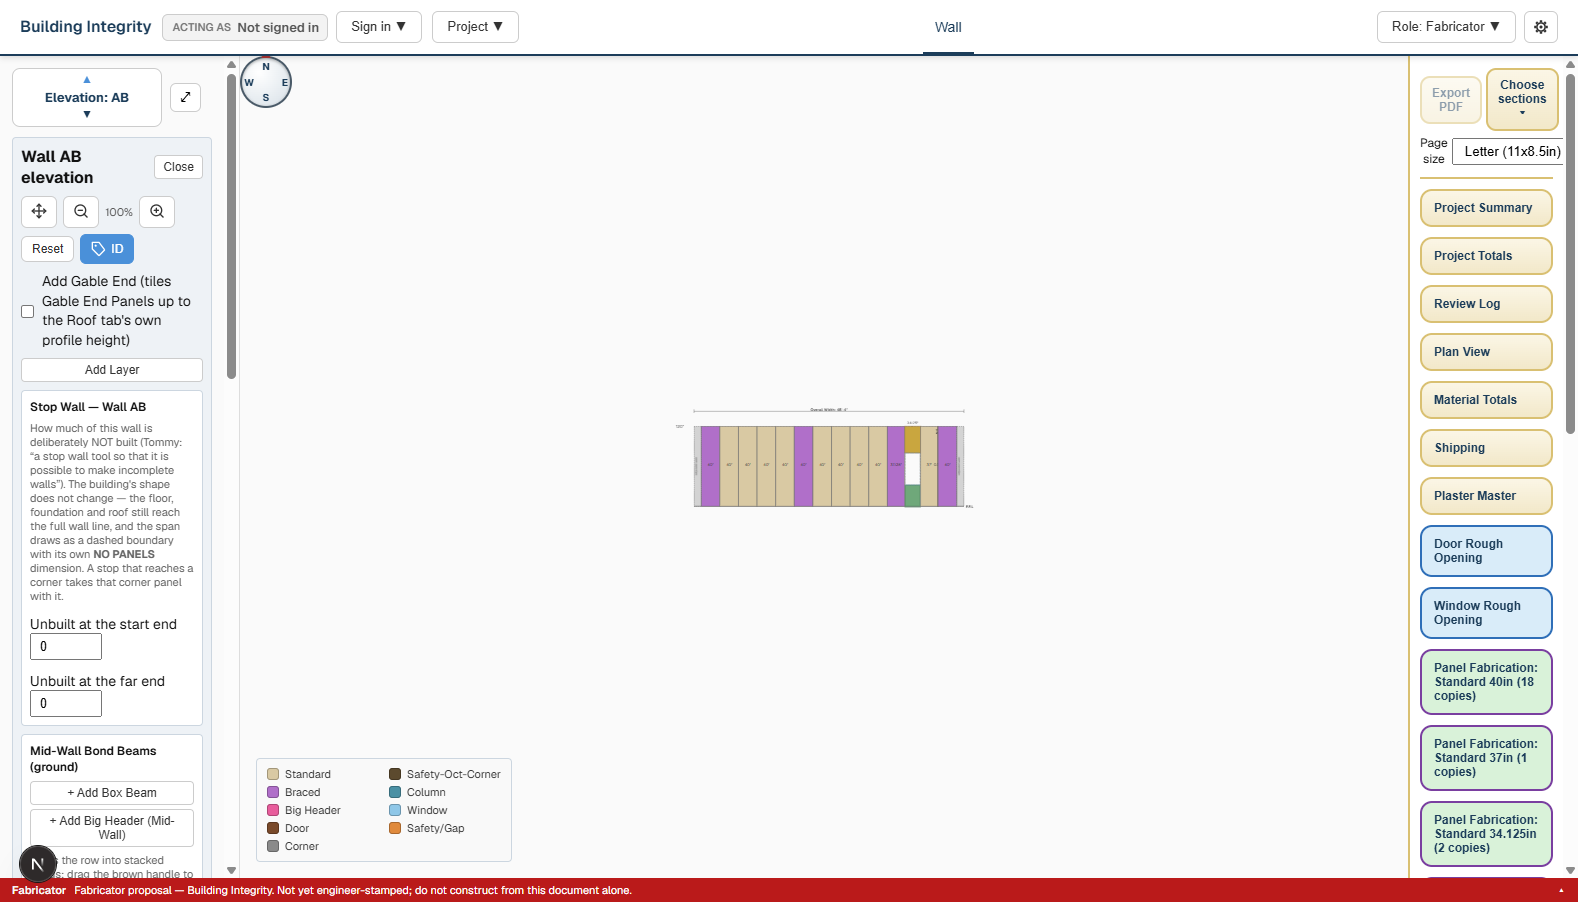
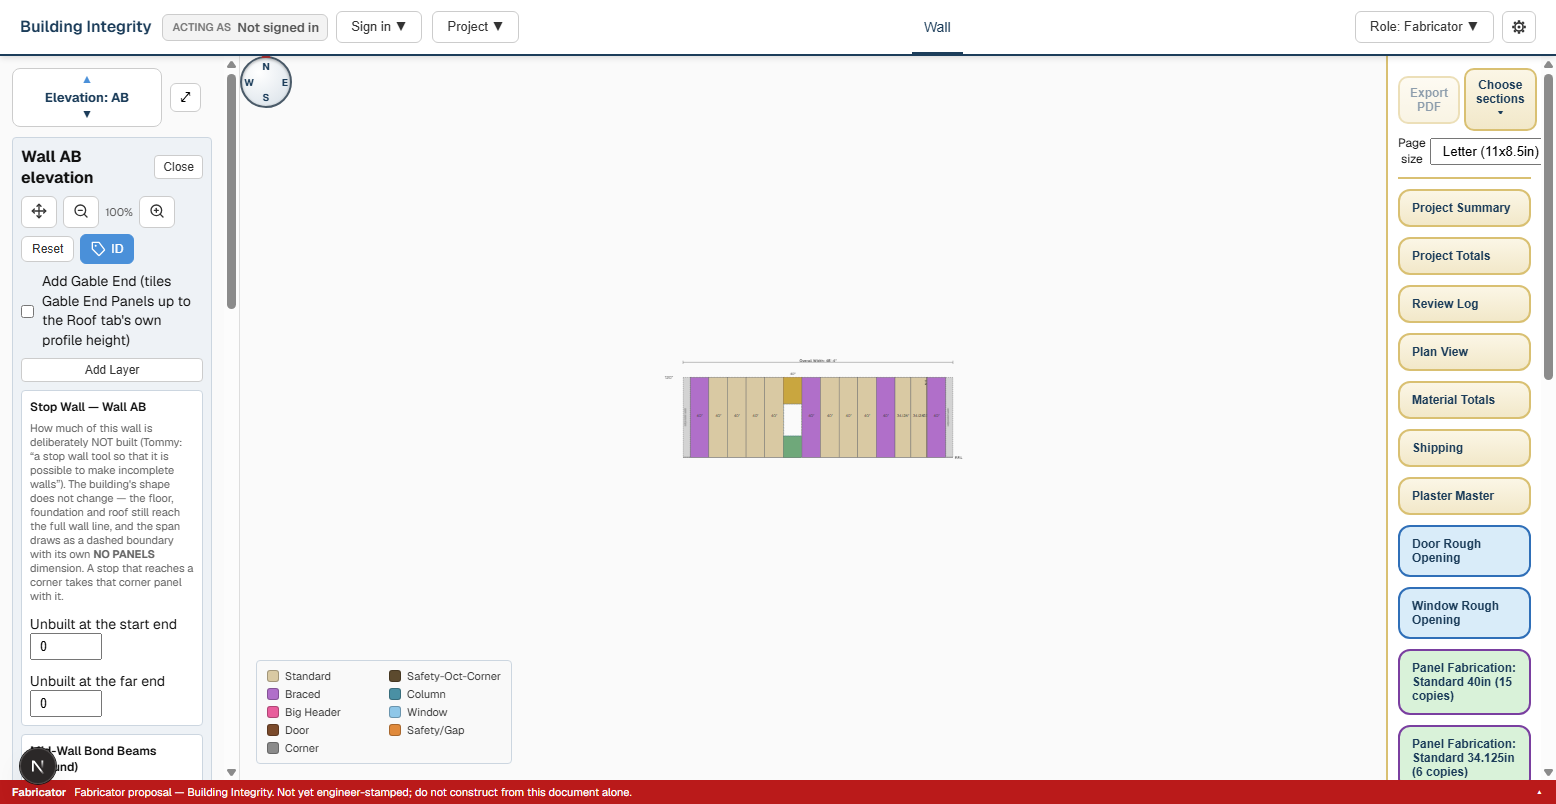
Smearforn 2b, review fix 2: re-run the harness against the fixed build, and record the residual
14 of 14, and this time the exit code is measured rather than reasoned
about: HARNESS_EXIT=0 on a clean run, 1 with SMEARFORN_SELF_TEST_INVERT=1
(13 of 14, the cross-reference check). Fresh evidence.json and the six
screenshots, from port 3231 — 3214, 3215 and 3219 were all occupied by other
checkouts, which is the trap the run's own build check exists for.

The step that matters reads, through the real UI:

  "Deleted a panel on wall AB: 15 panels -> 14, 12 still automatic. Spanning
  header H1 still spans its panels, but those panels are now a different
  width: it is cut 85¾" instead of 80"."

Before this pass the same delete printed only the first sentence.

Also recorded in the spec: the residual this leaves. A re-tile that changes a
header's width but leaves it INSIDE 48-144in produces no flag, because the
part is still buildable, and only the insert/delete path has a commit notice
to announce a change in. The Review Log always shows the CURRENT span, so no
sheet carries a wrong number; what a reader cannot see there is that it moved.

Changed region(s): [[0.0, 0.0, 1.0, 0.995], [0.4319, 0.4353, 0.617, 0.5908], [0.2468, 0.8085, 0.3393, 0.9328]]

diff --git a/building_integrity_app_spec.md b/building_integrity_app_spec.md
@@ -2932,6 +2932,7 @@ Three consequences worth stating before anyone builds it:
 
 - **`spanningHeaderSpanOutOfRange`** (pure, in `packages/geometry/src/spanningHeader.ts`, with its own tests) answers *"is what is stored still a width the shop builds"* — separate from `resolveSpanningHeaderPlacement`, which answers *"may this be placed"* and refuses. It is computed from the **CURRENT slots and the stored range**, never from the edit that caused the change, and that is the design requirement rather than a convenience: **it therefore covers the re-tile routes as well as the shift**, including the 51–75in corner dead-band re-tile on branch `fix-corner-dead-band` (which replaces one middle panel with two corner panels, silently re-pointing a stored range at different panels) and any re-tile route not written yet. Asserted directly: the same stored range flags or does not flag purely on what is under it now.
 - The **Review Log entry** flags it with the number, names the range as unconfirmed, and says the range is **not widened** to fit it. The stale *"refused rather than accommodated"* sentence now says refused **at placement**, and flagged here afterwards.
+- **⚠ A residual, stated rather than implied:** a re-tile that changes a header's width but leaves it INSIDE 48–144in produces no flag, because the part is still buildable — only the insert/delete path announces a width change, since it is the one path with a commit notice to announce it in. The Review Log always shows the header's CURRENT span, so the number on the sheet is never wrong; what a reader cannot see there is that it moved. Giving every re-tile entry point a notice is its own change.
 
 **The opening case Tommy permitted, with its one unvalidated corner closed.** Asked whether a header may bear on a corner panel and span a window/door, he answered **"allow both"** — so the combination is permitted and neither is refused. Corner panels need nothing (geometry, derived span and return-leg pricing are all already right). The window/door case had a hole: a header shortens the panel beneath it, but the window keeps the sill height it already had, so a header placed low enough leaves a **zero-height window header inside a shortened panel** — an opening filling its own panel, with nothing said. Nothing crashes (`computeHeaderHeightIn` clamps at 0); the vertical refusal only checks the header against the story and `bigHeaderHeightInRange`, and the sill-height clamp clamps against the **wall** height, not against a band a header may later put beneath it. **`spanningHeaderOpeningConflicts`** (pure, tested) reports every covered slot whose sill + RO height exceeds the header's own bottom face, and the Review Log entry names those panels and both numbers. **Reported, not refused** — he permitted it.
 

diff --git a/apps/web/harness/smearforn-stage-2b/README.md b/apps/web/harness/smearforn-stage-2b/README.md
@@ -46,8 +46,9 @@ in it — drawing a footprint, measuring walls, passing its first two checks —
 before dying five steps later on a missing button, with a message that looked
 like a broken locator. There is now a named check for exactly that
 (`the-app-under-test-actually-has-stage-2b-in-it`), so a wrong server is one
-loud failure instead of a puzzle. The checked-in evidence is from port 3219
-for that reason.
+loud failure instead of a puzzle. The checked-in evidence is from **port 3231**
+for that reason — 3214, 3215 and 3219 were all occupied by other checkouts
+when the review-fix pass re-ran it on 2026-09-26.
 
 ## Knobs, and why each is a real fixture
 
